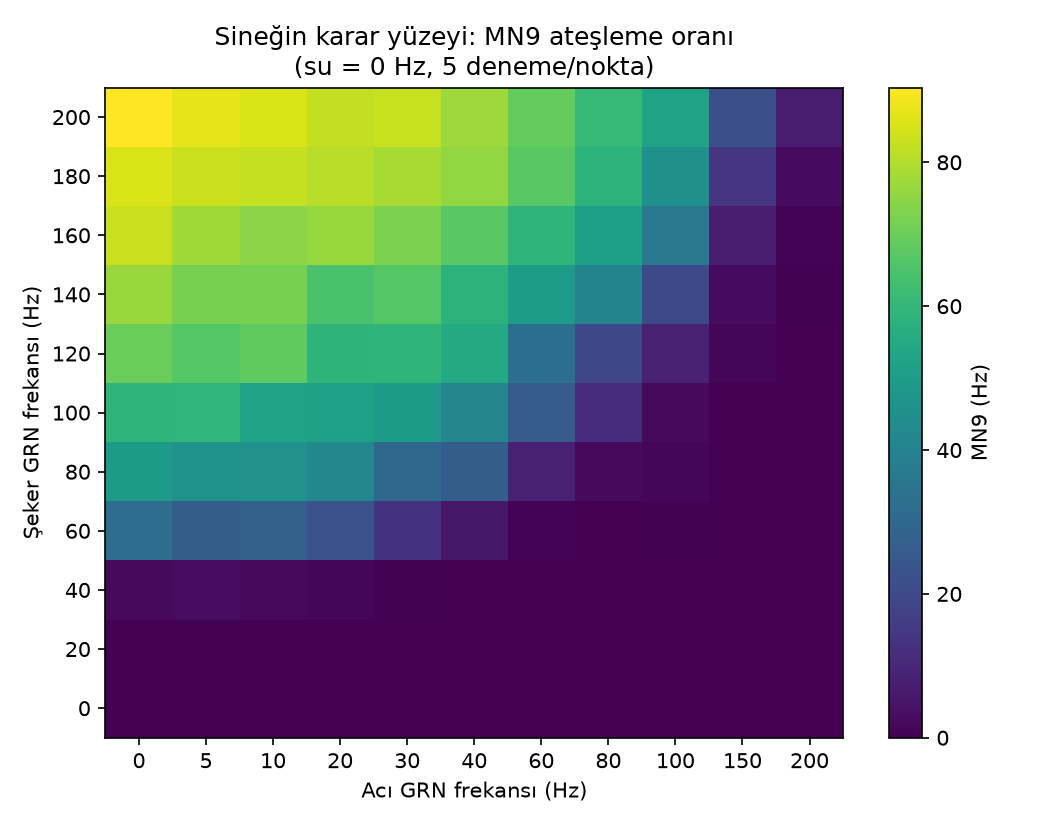
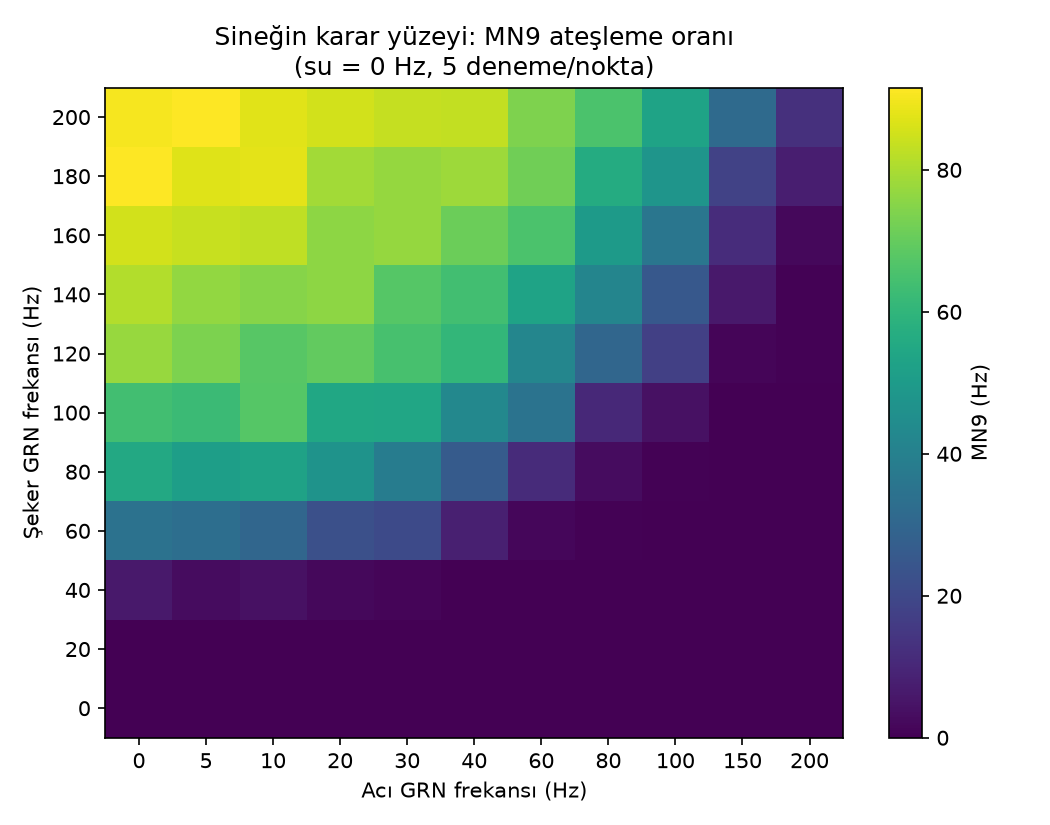
Update BRAIN_VALIDATION.md and ROADMAP.md for GRN mapping changes; enhance grn_ablation.py documentation and logic

diff --git a/scripts/grn_ablation.py b/scripts/grn_ablation.py
@@ -1,8 +1,9 @@
-"""Eksik GRN'lerin etkisi: kanaldan rastgele bir nöron daha çıkarıp tam kanalla karşılaştırma.
+"""Bir GRN kaybının etkisi: kanaldan rastgele bir nöron çıkarıp tam kanalla karşılaştırma.
 
-v783'te şeker ve acı kanallarından birer GRN eksik (bkz. docs/BRAIN_VALIDATION.md §1). Bir nöron
-kaybının MN9'a etkisini tahmin etmek için 20 nöronlu kanaldan rastgele bir nöron daha çıkarılır
-(19 nöron) ve aynı girdilerde MN9 oranı karşılaştırılır. Üç farklı nöron için tekrarlanır.
+Shiu listelerindeki iki GRN v783'te farklı kök ID'ye sahip (bkz. docs/BRAIN_VALIDATION.md §1). Bir
+nöron kaybının MN9'a etkisini tahmin etmek için kanaldan rastgele bir nöron çıkarılır (N → N−1) ve
+aynı girdilerde MN9 oranı karşılaştırılır. Üç farklı nöron için tekrarlanır. N, kanalın o anki
+boyutudur (eşleme öncesi 20, sonrası 21).
 
 Kanallar `FlyBrain.channels` geçici olarak değiştirilerek küçültülür; neurons.py değişmez.
 
@@ -87,10 +88,11 @@ def main() -> None:
 
     rows = []
     for channel, points in POINTS.items():
-        for removal_seed, position in pick_removals(len(brain.channels[channel])):
+        size = len(brain.channels[channel])
+        for removal_seed, position in pick_removals(size):
             removed = int(brain.connectome.flywire_ids[brain.channels[channel][position]])
             with channel_without(brain, channel, position):
-                assert len(brain.channels[channel]) == 19
+                assert len(brain.channels[channel]) == size - 1
                 results = brain.simulate_batch(points, 1000.0, n, args.seed)
             for point, result in zip(points, results, strict=True):
                 full_mean, full_sd = summarize(baseline[json.dumps(point, sort_keys=True)])
@@ -98,6 +100,7 @@ def main() -> None:
                 rows.append(
                     {
                         "channel": channel,
+                        "channel_size": size,
                         "removal_seed": removal_seed,
                         "removed_id": removed,
                         "point": label(point),
@@ -116,11 +119,11 @@ def main() -> None:
     args.out.write_text(json.dumps({"meta": meta, "rows": rows}, indent=2), encoding="utf-8")
 
     print(f"cihaz={args.device}  süre={elapsed:.0f} s")
-    print("| Kanal | Çıkarılan nöron | Nokta | 20 nöron (Hz) | 19 nöron (Hz) | Fark ± SE (Hz) |")
+    print("| Kanal (N) | Çıkarılan | Nokta | N nöron (Hz) | N−1 nöron (Hz) | Fark ± SE (Hz) |")
     print("|---|---|---|---|---|---|")
     for r in rows:
         print(
-            f"| {r['channel']} | `{r['removed_id']}` | {r['point']} | "
+            f"| {r['channel']} ({r['channel_size']}) | `{r['removed_id']}` | {r['point']} | "
             f"{r['full_mean']:.1f} ± {r['full_sd']:.1f} | "
             f"{r['ablated_mean']:.1f} ± {r['ablated_sd']:.1f} | "
             f"{r['diff']:+.1f} ± {r['se']:.1f} |"

diff --git a/docs/BRAIN_VALIDATION.md b/docs/BRAIN_VALIDATION.md
@@ -1,22 +1,24 @@
 # Sinek beyni modülü: doğrulama raporu (Faz 1)
 
-Tarih: 14 Ekim 2026 · Connectome: FlyWire v783 (138.639 nöron, 15.091.983 bağlantı) ·
+Tarih: 14 Ekim 2026, güncelleme 15 Ekim 2026 (GRN eşlemesi) · Connectome: FlyWire v783 (138.639 nöron, 15.091.983 bağlantı) ·
 Model: Shiu et al. 2024 LIF, kendi PyTorch uygulamamız (`src/flyhire/brain/lif_torch.py`)
 
 ## 1. Nöron kimlikleri (v630 → v783)
 
 Shiu'nun listeleri FlyWire v630 kök ID'leri. v783'te:
 
-| Kanal | Shiu listesi | v783'te bulunan | Eksik |
-|---|---|---|---|
-| Şeker GRN | 21 | 20 | `720575940620900446` |
-| Su GRN | 18 | 18 | - |
-| Acı GRN | 21 | 20 | `720575940618600651` |
-| MN9 (okunan) | `720575940660219265` | aynen var | - |
-| MN9 (karşı taraf) | `720575940645521262` | yok | v783 karşılığı aynı hücre tipinden (CB0701): `720575940618238523` |
+| Kanal | Shiu listesi | v783'te aynen bulunan | Eşlenen (CAVE) | Modelde |
+|---|---|---|---|---|
+| Şeker GRN | 21 | 20 | `720575940620900446` → `720575940639259967` | 21 |
+| Su GRN | 18 | 18 | - | 18 |
+| Acı GRN | 21 | 20 | `720575940618600651` → `720575940619072513` | 21 |
+| MN9 (okunan) | `720575940660219265` | aynen var | - | |
+| MN9 (karşı taraf) | `720575940645521262` | yok | aynı hücre tipinden (CB0701): `720575940618238523` | |
 
-Eksik iki GRN yerine yenisi eklenmedi; kanallar 20/18/20 nöronla çalışıyor. Bu sayılar
-`tests/test_brain_full.py::test_channel_coverage` ile sabitlendi.
+Kanallar 21/18/21 nöronla çalışıyor (`neurons.V783_REPLACEMENTS`). Bu sayılar
+`tests/test_brain_full.py::test_channel_coverage` ile sabitlendi. 15 Ekim 2026'dan önceki sonuçlar
+(eski karar yüzeyi `data/surface_v783_grn20-18-20.npz`, §3 tablosu) eşleme yapılmadan, 20/18/20 nöronla
+alındı.
 
 ### Eksik GRN'lerin v783 karşılıkları (CAVE)
 
@@ -30,14 +32,17 @@ v783 zaman damgası; `get_past_ids` ile v630'a geri):
 
 İki durumda da bölünme yok: eski kök tamamen tek bir v783 köküne geçmiş ve proofreading ile başka
 parçalarla birleşmiş. Birleşen diğer v630 kökleri hiçbir kanal listesinde değil. Yeni ID'ler modelde
-var, annotasyon tipleri kanalla uyumlu. **`neurons.py` henüz güncellenmedi** (karar bekliyor); kanallar
-şimdilik 20/18/20.
+var, annotasyon tipleri kanalla uyumlu.
 
-### Bir GRN kaybının etkisi
+Eşlenen nöronlar kanallarının güçlü üyeleri: yeni şeker GRN'inin giden sinaps sayısı 557 (kanalda
+19./21, medyan 348), yeni acı GRN'ininki 302 (15./21, medyan 158). Birleşme ile büyüdükleri için
+v630'daki parçalarından daha fazla bağlantı taşıyor olabilirler.
 
-20 nöronlu kanaldan rastgele bir nöron daha çıkarılıp (19 nöron) MN9 karşılaştırıldı. Üç farklı nöron
-denendi (seed 0, 1, 2), her nokta 10 deneme, GPU (`scripts/grn_ablation.py`, ham sonuç
-`data/grn_ablation.json`). Fark = 19 nöron − 20 nöron; gürültü = farkın standart hatası.
+### Bir GRN'in etkisi
+
+**Deney 1, eşlemeden önce (20 → 19 nöron).** 20 nöronlu kanaldan rastgele bir nöron çıkarılıp MN9
+karşılaştırıldı. Üç farklı nöron, her nokta 10 deneme, GPU (`scripts/grn_ablation.py`, ham sonuç
+`data/grn_ablation_20.json`). Fark = 19 nöron − 20 nöron; gürültü = farkın standart hatası.
 
 | Çıkarılan | Nokta | 20 nöron (Hz, ort. ± SD) | Fark, 3 farklı nöron (Hz) | Gürültü (SE, Hz) |
 |---|---|---|---|---|
@@ -50,13 +55,48 @@ denendi (seed 0, 1, 2), her nokta 10 deneme, GPU (`scripts/grn_ablation.py`, ham
 | acı | şeker 100 + acı 60 | 23,8 ± 7,1 | −0,6 / +5,6 / −2,0 | ± 2,8–3,2 |
 
 Çıkarılan nöronlar: şeker `…628853239`, `…640649691`, `…612670570`; acı `…614281266`,
-`…645743412`, `…619028208` (hepsi `720575940` ile başlar).
+`…645743412`, `…619028208` (hepsi `720575940` ile başlar). 21 karşılaştırmanın yalnızca biri
+|fark/SE| = 2,0 sınırına ulaştı.
 
-**Sonuç:** Bir GRN kaybının etkisi gürültü düzeyinde. 21 karşılaştırmanın yalnızca biri |fark/SE| = 2,0
-sınırına ulaşıyor (şans eseri ~1 beklenir); ortalama fark şekerde −0,5 Hz, acıda +0,05 Hz, en büyük
-mutlak fark 5,6 Hz (denemeler arası SD 4–10 Hz). Tüm karşılaştırmalar aynı 20 nöronlu ölçümü
-paylaştığı için o ölçümdeki şans sapması tüm satırlara yansır (örneğin "şeker 100 + acı 30" satırları).
-Eksik iki GRN'in sonuçları anlamlı biçimde değiştirmesi beklenmiyor.
+**Deney 2, eşlemeden sonra (21 → 20 nöron).** Aynı script, aynı noktalar, T4 GPU (Colab), ham sonuç
+`data/grn_ablation_21.json`.
+
+| Çıkarılan | Nokta | 21 nöron (Hz, ort. ± SD) | Fark, 3 farklı nöron (Hz) | Gürültü (SE, Hz) |
+|---|---|---|---|---|
+| şeker | şeker 60 | 36,1 ± 8,5 | −0,5 / −1,5 / **−8,1** | ± 3,1–3,7 |
+| şeker | şeker 100 | 68,7 ± 4,0 | −1,4 / −0,2 / **−5,6** | ± 1,5–2,2 |
+| şeker | şeker 200 | 91,1 ± 4,6 | **+4,8** / −2,2 / −1,0 | ± 1,8–2,3 |
+| şeker | şeker 100 + acı 30 | 52,6 ± 5,3 | −1,9 / −3,0 / **−8,4** | ± 2,0–2,9 |
+| şeker | şeker 60 + su 80 | 62,5 ± 6,5 | −0,6 / +1,3 / +1,9 | ± 2,5–2,9 |
+| acı | şeker 100 + acı 30 | 52,6 ± 5,3 | +1,6 / +1,7 / −1,9 | ± 2,3–2,4 |
+| acı | şeker 100 + acı 60 | 29,1 ± 2,4 | +0,1 / **+9,6** / +2,8 | ± 1,8–2,5 |
+
+Çıkarılan nöronlar: şeker `…612670570`, `…640649691`, `…632425919`; acı `…619028208`,
+`…610483162`, `…610259370`. Kalın değerler |fark/SE| ≥ 2 (21 karşılaştırmanın 5'i; şans eseri ~1
+beklenir). Büyük etkiler iki nörondan geliyor: şeker `…632425919` (522 sinaps, kanalda 18./21) üç
+noktada 5–8 Hz düşürüyor, acı `…610483162` (440 sinaps, kanalın en güçlüsü) acı 60 Hz'de baskılamayı
+belirgin biçimde zayıflatıyor. Sinaps sayısı tek başına açıklamıyor: deney 1'deki `…628853239` da
+güçlü (495 sinaps) ama etkisi küçüktü.
+
+**Deney 3, karar yüzeyinin tamamı.** 21/18/21 ile yeniden hesaplanan yüzey (§5) eski 20/18/20 yüzeyiyle
+726 noktada karşılaştırıldı (her ikisi 5 deneme/nokta):
+
+| | Değer |
+|---|---|
+| Ortalama fark (yeni − eski), MN9 > 5 Hz olan 559 nokta | **+2,0 Hz**, noktaların %69'unda pozitif |
+| Ortalama mutlak fark, tüm noktalar | 2,7 Hz |
+| \|fark/SE\| > 2 olan nokta | 118 / 726 (şans eseri ~40–60 beklenir); 91'i pozitif yönde |
+| En büyük fark | +14,8 Hz (şeker 100, acı 10), +14,0 Hz (şeker 40, su 160) |
+
+Şeker seviyesine göre ortalama fark: şeker 0–20 Hz'de ~0, şeker 40–60 Hz'de +1,5, şeker 80–200 Hz'de
++2–3 Hz.
+
+**Sonuç:** Deney 1'in "bir GRN'in etkisi gürültü düzeyinde" sonucu genellenemiyor. GRN'lerin katkısı
+nörondan nörona çok değişiyor; rastgele seçilen üç nöron bunu yakalamaya yetmedi. Eşlenen iki nöron
+birlikte MN9'u sistematik olarak ~2 Hz artırıyor, eşik bölgesinde 10–15 Hz'e kadar. Bu yüzden eşlemeli
+21/18/21 kanallar ve yeniden hesaplanan yüzey kullanılıyor; tüm sonraki ölçümler bu yüzeye göre.
+Kanal tanımı brain_version etiketine girdiği için (`grn21-18-21/…`) eski yüzey yanlışlıkla
+kullanılamaz.
 
 **Tipleme farkı:** v783 annotasyonları (Schlegel et al. 2024) Shiu'nun "şeker" listesinde LB3d
 (yüksek tuz) ve LB4b, "su" listesinde LB3c (şeker) tipleri gösteriyor. Makalede doğrulanmış davranışı
@@ -88,19 +128,23 @@ doğrulandı. PyTorch modeli aynı kuralı uygular.
 
 ## 3. Biyolojik sonuçların tekrar üretilmesi
 
-Tam beyin, 1 s sanal süre, 10 deneme (CPU):
+Tam beyin, 1 s sanal süre. İlk sütun eşlemeden önce (20/18/20, CPU, 10 deneme), ikinci sütun
+eşlemeden sonra (21/18/21, karar yüzeyinin ızgara noktaları, 5 deneme):
 
-| Girdi | MN9 (Hz) | Beklenen (Shiu 2024) |
-|---|---|---|
-| Girdi yok | 0,0 | sessiz |
-| Şeker 100 Hz | 57,6 ± 4,6 | ateşler |
-| Şeker 200 Hz | 92,1 ± 6,9 | ateşler, frekansla artar |
-| Şeker 100 + acı 100 Hz | **2,6 ± 1,7** | acı şeker yanıtını baskılar |
-| Şeker 100 + acı 200 Hz | 0,0 | |
-| Su 200 Hz | 31,7 ± 4,3 | ateşler |
-| Acı 200 Hz | 0,0 | ateşlemez |
+| Girdi | MN9, 20/18/20 (Hz) | MN9, 21/18/21 (Hz) | Beklenen (Shiu 2024) |
+|---|---|---|---|
+| Girdi yok | 0,0 | 0,0 | sessiz |
+| Şeker 100 Hz | 57,6 ± 4,6 | 63,8 ± 4,0 | ateşler |
+| Şeker 200 Hz | 92,1 ± 6,9 | 90,4 ± 3,3 | ateşler, frekansla artar |
+| Şeker 100 + acı 100 Hz | **2,6 ± 1,7** | **4,2 ± 3,0** | acı şeker yanıtını baskılar |
+| Şeker 100 + acı 200 Hz | 0,0 | 0,0 | |
+| Su 200 Hz | 31,7 ± 4,3 | 30,4 ± 3,2 | ateşler |
+| Acı 200 Hz | 0,0 | 0,0 | ateşlemez |
 
-Kalıcı testler: `pytest -m slow` (yaklaşık 1 dakika).
+Eşleme Shiu'nun nitel sonuçlarını değiştirmiyor.
+
+Kalıcı testler: `pytest -m slow` (yerelde 16 çekirdekte yaklaşık 1 dakika). 21/18/21 kanallarla Colab'da
+5/5 geçti (2 çekirdekli CPU'da 4 dk 21 s).
 
 **Kodlayıcı için not (Faz 3):** acı çok güçlü bir baskılayıcı. Şeker ile aynı frekanstaki acı, MN9'u
 neredeyse tamamen susturuyor. Acı kanalının ölçeği bu yüzden şekerinkinden çok daha küçük seçilmeli;
@@ -117,6 +161,7 @@ karar yüzeyinde acı ekseni düşük frekanslarda sık örneklendi.
 | GPU, float32, batch 30 | 0,69 s / deneme |
 | GPU, float64, batch 120 | 0,84 s / deneme |
 | CPU, torch 2.11 (CUDA paketi), batch 30 | 2,5 s / deneme |
+| **Colab T4** (ücretsiz), float32, batch 120 | ~0,6 s / deneme (462 yüzey noktası × 5 deneme ≈ 23 dk) |
 
 GPU ve CPU aynı noktada tutarlı: şeker 60 Hz, 30 deneme → GPU 26,8 / 27,8 Hz, CPU 27,9 / 27,6 Hz
 (iki seed, SE ≈ 1,1).
@@ -125,21 +170,26 @@ GPU ve CPU aynı noktada tutarlı: şeker 60 Hz, 30 deneme → GPU 26,8 / 27,8 H
 spike'lar üzerinden izlemek 2,6× hızlandırdı (`v_rst = v_0` ve refrakterde `g = 0` olduğu için bu
 nöronlar zaten dinlenme noktasında).
 
-Sonuç: karar yüzeyi (726 nokta × 5 deneme) **CPU'da 81 dakikada** hesaplandı; Colab
-şart değil. İlan başına tam simülasyon (5 deneme) yaklaşık 7 saniye.
+Karar yüzeyi (726 nokta × 5 deneme) CPU'da 81 dakika sürüyor. Uzun CPU koşuları dizüstü bilgisayarı
+zorladığı için ağır hesaplar artık `notebooks/colab_brain.ipynb` ile Colab'da (T4 GPU) yapılıyor;
+sonuçlar Drive'a yazılıyor ve hesap kaldığı yerden devam ediyor. İlan başına tam simülasyon (5 deneme)
+CPU'da yaklaşık 7 saniye.
 
 ## 5. Karar yüzeyi
 
 `data/surface_v783.npz`: şeker 0–200 Hz (11 nokta) × su 0–200 Hz (6) × acı 0–200 Hz (11, düşük
-frekanslarda sık), nokta başına 5 deneme, 1 s. CPU'da 81 dakikada hesaplandı.
+frekanslarda sık), nokta başına 5 deneme, 1 s, kanallar 21/18/21. 264 nokta yerelde (CPU), kalan 462
+nokta Colab T4'te hesaplandı; batch seed'i ilk noktaya bağlı olduğu için devam eden hesap aynı
+sonucu verir (yerelde hesaplanan noktalar Colab dosyasında birebir aynı). Eski 20/18/20 yüzeyi
+`data/surface_v783_grn20-18-20.npz` olarak saklandı (farklar §1, deney 3).
 
 ![Şeker × acı → MN9](figures/decision_surface.png)
 
 Yüzeyden çıkan, basit bir toplamla açıklanamayacak davranışlar:
 
-- **Şeker eşiği:** 40 Hz'e kadar MN9 neredeyse sessiz (2 Hz), 60 Hz'de 32 Hz'e sıçrıyor.
-- **Su tek başına zayıf, şekeri güçlendiriyor:** su 120 Hz'e kadar MN9'u ateşlemiyor (200 Hz'de 32 Hz),
-  ama şeker 60 Hz'in yanında su 80 Hz yanıtı 32'den 62 Hz'e çıkarıyor.
+- **Şeker eşiği:** 40 Hz'e kadar MN9 neredeyse sessiz (6 Hz), 60 Hz'de 35 Hz'e sıçrıyor.
+- **Su tek başına zayıf, şekeri güçlendiriyor:** su 120 Hz'e kadar MN9'u ateşlemiyor (200 Hz'de 30 Hz),
+  ama şeker 60 Hz'in yanında su 80 Hz yanıtı 35'ten 66 Hz'e çıkarıyor.
 - **Acı baskılaması şekere bağlı:** düşük şekerde az acı yetiyor, yüksek şekerde çok daha fazlası gerekiyor.
   Su 120 Hz'de şeker eşiği ~20 Hz'e iniyor ve acıya tolerans artıyor
   ([görsel](figures/decision_surface_water120.png)).
@@ -149,13 +199,16 @@ Bunlar Faz 5'te "sinek ile basit kural nerede ayrışıyor?" sorusunun aday ceva
 ### İnterpolasyon hatası
 
 `flyhire brain check-surface --points 24`: ızgara dışındaki 24 rastgele noktada yüzey (doğrusal
-interpolasyon) ile gerçek simülasyon (5 deneme) karşılaştırıldı.
+interpolasyon) ile gerçek simülasyon (5 deneme) karşılaştırıldı (21/18/21: Colab T4, `--device cuda`).
 
-| | Değer |
-|---|---|
-| Ortalama mutlak hata | **2,1 Hz** |
-| En büyük hata | 6,0 Hz |
-| Simülasyonun kendi denemeler arası sapması | ± 0–7 Hz |
+| | 20/18/20 yüzeyi | 21/18/21 yüzeyi |
+|---|---|---|
+| Ortalama mutlak hata | 2,1 Hz | **1,7 Hz** |
+| En büyük hata | 6,0 Hz | 5,8 Hz |
+| Simülasyonun kendi denemeler arası sapması | ± 0–7 Hz | ± 0–8 Hz |
+
+21/18/21 yüzeyinde en büyük hata eşik bölgesinde (şeker 68, su 52, acı 71: yüzey 15,6, simülasyon
+9,8 ± 3,1 Hz). Yüzey 24 noktanın 18'inde simülasyondan biraz yüksek; ortalama sapma +1,0 Hz.
 
 Hata, simülasyonun kendi gürültüsüyle aynı büyüklükte. Günlük kararlar yüzeyden okunabilir; eşiğe
 yakın ilanlar (panelde "kararsız") için tam simülasyon çalıştırılmalı.

diff --git a/docs/ROADMAP.md b/docs/ROADMAP.md
@@ -87,14 +87,14 @@ fly_kingo/
 
 ### Faz 1: Sinek beynini ayağa kaldır · ✅ tamamlandı (14 Ekim 2026)
 Ayrıntılı sonuçlar: [BRAIN_VALIDATION.md](BRAIN_VALIDATION.md).
-- ✅ `neurons.py`: Shiu listeleri (v630). v783'te şeker 20/21, su 18/18, acı 20/21; MN9 aynen var. Karşı taraf MN9'un v783 karşılığı (CB0701) bulundu.
+- ✅ `neurons.py`: Shiu listeleri (v630). v783'te aynen bulunmayan iki GRN CAVE ile eşlendi, kanallar 21/18/21; MN9 aynen var. Karşı taraf MN9'un v783 karşılığı (CB0701) bulundu. Eşlenen iki GRN MN9'u ortalama ~2 Hz, eşik bölgesinde 10–15 Hz'e kadar değiştiriyor (doğrulama raporu §1).
 - ✅ `lif_brian2.py`: Brian2 referansı (Colab gerekmedi; yerelde cython ile ~48 s/deneme).
 - ✅ `lif_torch.py`: PyTorch modeli. Deterministik girdide Brian2 ile **spike spike aynı**; tam beyinde korelasyon 0,999, MN9 89,7 / 89,8 Hz. Brian2'nin refrakter sürede sinaptik girdiyi yok sayma kuralı bulundu ve uygulandı.
 - ✅ Kalıcı testler: `test_sugar_activates_mn9`, `test_bitter_suppresses_sugar`, `test_water_activates_mn9`, `test_weights_unchanged_after_simulation` (`pytest -m slow`), ayrıca hızlı paket.
 - ✅ CPU performansı: 1,45 s/deneme (1 s sanal süre). İlan başına 5 denemelik tam simülasyon ≈ 7 s.
 - ✅ `api.py`: `FlyBrain.simulate()` / `simulate_batch()`; diğer katmanların beyne tek giriş noktası.
-- ✅ `surface.py`: şeker×su×acı yüzeyi (11×6×11 nokta, 5 deneme) CPU'da 81 dakikada hesaplandı. İnterpolasyon hatası ortalama 2,1 Hz (en büyük 6,0 Hz). `flyhire brain check-surface` interpolasyon hatasını ölçer, `flyhire brain heatmap` README görselini çizer.
-- **Plandan sapma:** Colab'a gerek kalmadı. PyTorch modeli CPU'da yeterince hızlı.
+- ✅ `surface.py`: şeker×su×acı yüzeyi (11×6×11 nokta, 5 deneme). İlk sürüm CPU'da 81 dakikada, 21/18/21 sürümü kısmen Colab T4'te hesaplandı. İnterpolasyon hatası (20/18/20 yüzeyi) ortalama 2,1 Hz (en büyük 6,0 Hz). `flyhire brain check-surface` interpolasyon hatasını ölçer, `flyhire brain heatmap` README görselini çizer.
+- **Plandan sapma:** PyTorch modeli CPU'da yeterince hızlı, ama uzun CPU/GPU koşuları dizüstü bilgisayarı kapattığı için ağır hesaplar `notebooks/colab_brain.ipynb` ile Colab'da yapılıyor.
 
 ### Faz 2: İlan boru hattı · 1,5–2 hafta
 - Gmail iş alarmı okuyucusu (LinkedIn, Kariyer.net, Indeed alarmları), link ayıklama.
